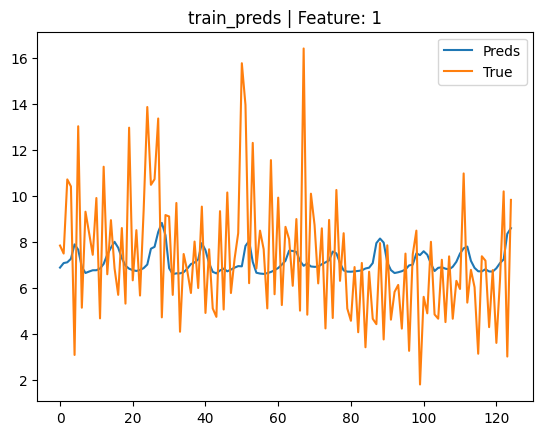
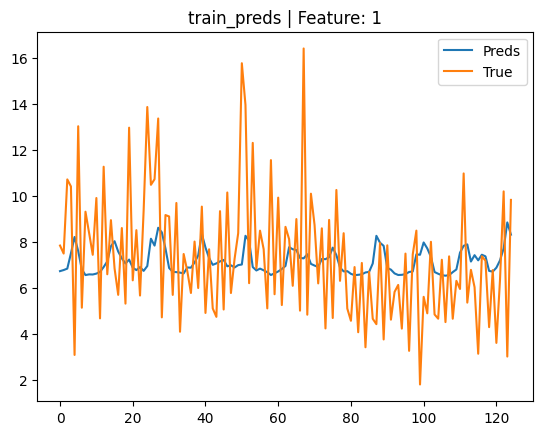
...

diff --git a/mtad_gat.py b/mtad_gat.py
@@ -28,13 +28,14 @@ class MTAD_GAT(nn.Module):
 
 	def forward(self, x):
 		# x shape (b, n, k): b - batch size, n - window size, k - number of nodes/features
-		x = self.conv(x)
+		#x = self.conv(x)
 		# print(x.shape)
 
-		h_feat = self.feature_gat(x)
-		h_temp = self.temporal_gat(x)
+		#h_feat = self.feature_gat(x)
+		#h_temp = self.temporal_gat(x)
 
-		h_cat = torch.cat([x, h_feat.permute(0, 2, 1), h_temp], dim=1)
+		#h_cat = torch.cat([x, h_feat.permute(0, 2, 1), h_temp], dim=1)
+		h_cat = x
 		gru_out, _ = self.gru(h_cat, self.gru_init_h)
 
 		forecasting_in = gru_out[:, -1, :]  # Extracting output belonging to last timestamp
